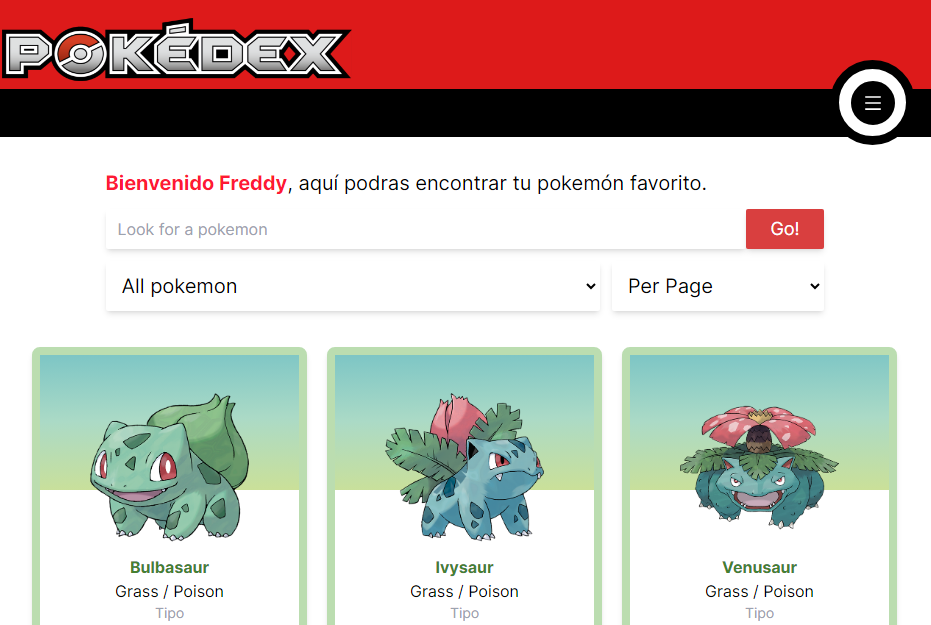
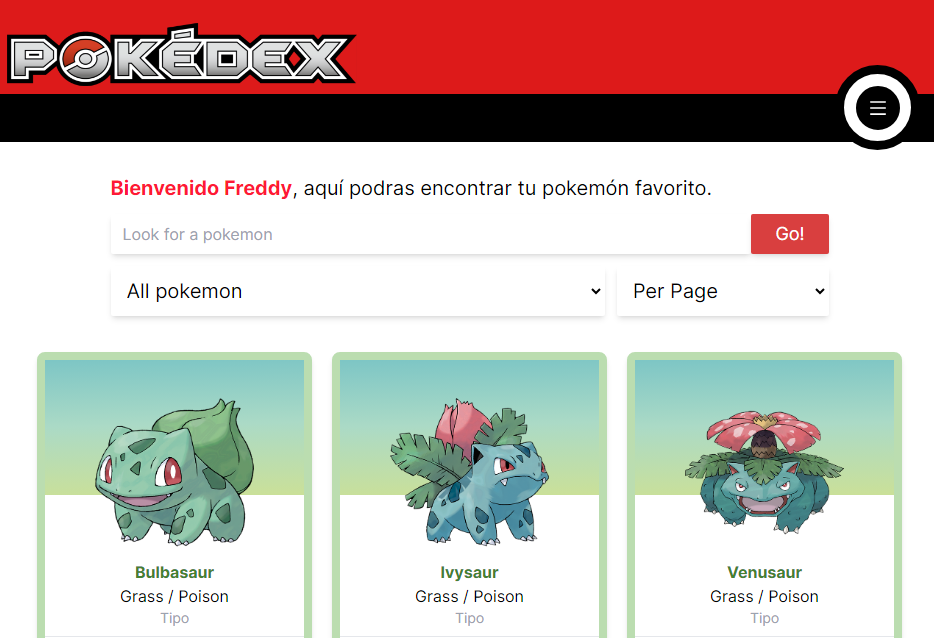
Uploading section Projects

diff --git a/src/components/CardProject.jsx b/src/components/CardProject.jsx
@@ -4,23 +4,23 @@ import { projects } from "../utlis/projectsdb";
 const CardProject = ({ project }) => {
 
   return (
-    <article className="flex flex-col xlg:flex-row gap-4 xlg:gap-6 justify-center p-4 py-6 shadow-lg rounded-md bg-white border-[1px] border-gray-400/30 dark:bg-[#1e1a4f] dark:shadow-white dark:shadow-none dark:border-none">
-      <div className="overflow-hidden rounded-md flex justify-center items-center w-full h-[150px] xxs:h-[200px] xlg:max-w-[175px] xlg:h-[150px]">
+    <article className="flex flex-col xlg:flex-row gap-4 xlg:gap-6 justify-center shadow-lg rounded-md bg-white border-[1px] border-gray-400/30 dark:bg-[#1e1a4f] dark:shadow-white dark:shadow-none dark:border-none xlg:h-[225px] hover:scale-105 transition-all duration-500">
+      <div className="overflow-hidden rounded-t-md xlg:rounded-none xlg:rounded-b-md xlg:rounded-r-none xlg:rounded-l-md flex justify-center items-center w-full h-[150px] xxs:h-[200px] xlg:w-[275px] xlg:h-full xlg:shadow-md">
         <img
           src={projects[project].img}
           alt=""
-          className="w-full h-full object-cover hover:scale-125 transition-all duration-500 opacity-50 hover:opacity-100"
+          className="w-full h-full object-cover transition-all duration-500"
         />
       </div>
-      <div className="flex flex-col gap-2 justify-center">
-        <h3 className="text-md font-semibold text-[#1e1a4f] dark:text-white xmd:text-xl xlg:text-2xl">
+      <div className="flex flex-col gap-3 justify-center p-4 xlg:px-3 xlg:py-5 xlg:max-w-[175px] xlg:justify-between">
+        <h3 className="text-md font-semibold text-[#1e1a4f] dark:text-white xxs:text-xl xmd:text-2xl xlg:text-2xl">
         {projects[project].title}
         </h3>
-        <p className="text-sm dark:text-white xmd:text-lg">{projects[project].content}</p>
+        <p className="text-sm dark:text-white xxs:text-base xmd:text-lg">{projects[project].content}</p>
         <a
           href={projects[project].url}
           target="_blank"
-          className="text-black cursor-pointer p-2 border rounded-md bg-white hover:bg-gray-100 text-sm w-[85px] text-center transition-all duration-300 dark:hover:bg-slate-950 dark:border-none dark:hover:text-white xmd:text-lg xmd:w-[110px]"
+          className="text-black cursor-pointer p-2 border rounded-md bg-white hover:bg-gray-100 text-sm w-[85px] text-center transition-all duration-300 dark:hover:bg-slate-950 dark:border-none dark:hover:text-white xxs:text-base xmd:text-lg xxs:w-[95px] xmd:w-[110px]"
         >
           Ver pagina
         </a>

diff --git a/src/components/CardProjectDetail.jsx b/src/components/CardProjectDetail.jsx
@@ -19,15 +19,15 @@ const CardProjectDetail = ({ project }) => {
   console.log(projects[project]);
 
   return (
-    <article className="flex flex-col xxl:justify-between xxl:px-6 xlg:flex-row gap-4 xlg:gap-6 justify-center p-4 py-6 shadow-lg rounded-md bg-white border-[1px] border-gray-400/30 dark:bg-[#1e1a4f] dark:shadow-white dark:shadow-none dark:border-none xlg:h-[225px] xxl:h-auto">
-      <div className="overflow-hidden rounded-md flex justify-center items-center w-full h-[150px] xxs:h-[200px] xlg:max-w-[175px] xlg:h-[150px] xxl:h-[250px] xxl:max-w-[250px]">
+    <article className="flex flex-col xlg:justify-between xlg:flex-row gap-4 xlg:gap-8 justify-center shadow-lg rounded-md bg-white border-[1px] border-gray-400/30 dark:bg-[#1e1a4f] dark:shadow-white dark:shadow-none dark:border-none xlg:h-[250px] xxl:h-[275px] hover:scale-105 transition-all duration-500">
+      <div className="overflow-hidden rounded-t-md xlg:rounded-none xlg:rounded-b-md xlg:rounded-r-none xlg:rounded-l-md flex justify-center items-center w-full h-[150px] xxs:h-[200px] xlg:w-[300px] xlg:h-full xxl:h-full xxl:w-[275px]">
         <img
           src={projects[project].img}
           alt=""
-          className="w-full h-full object-cover hover:scale-125 transition-all duration-500"
+          className="w-full h-full object-cover transition-all duration-500"
         />
       </div>
-      <div className="flex flex-col gap-2 justify-center xxl:justify-between py-2">
+      <div className="flex flex-col gap-4 justify-center xxl:justify-between pb-6 py-2 px-4 xlg:w-[275px] xlg:py-12 xxl:py-6 xxl:gap-2 xxl:pr-6">
         <div className="flex flex-col xxl:gap-3">
           <h3 className="text-md font-semibold text-[#1e1a4f] dark:text-white xmd:text-xl xxl:text-2xl">
             {projects[project].title}
@@ -38,7 +38,11 @@ const CardProjectDetail = ({ project }) => {
         </div>
         <div className="flex gap-2 py-2">
           {projects[project].codes.map((img) => (
-            <img src={imagescode[img]} alt="" className="w-[24px] xxs:w-[32px] opacity-60 hover:opacity-100 transition-opacity duration-200"/>
+            <img
+              src={imagescode[img]}
+              alt=""
+              className="w-[24px] xxs:w-[32px] opacity-60 hover:opacity-100 transition-opacity duration-200"
+            />
           ))}
         </div>
         <div className="flex gap-2 justify-end items-center xxl:gap-3">

diff --git a/src/Pages/Projects.jsx b/src/Pages/Projects.jsx
@@ -16,9 +16,9 @@ const Projects = () => {
   });
 
   return (
-    <div className="w-full flex flex-col gap-6 dark:bg-slate-950">
+    <div className="w-full flex flex-col gap-6 dark:bg-slate-950 xmd::h-[400px]">
       <h2 className="text-center text-2xl xlg:text-4xl mt-6 dark:text-white">Mis Proyectos</h2>
-      <section className="w-full grid grid-cols-[repeat(auto-fill,_275px)] xxs:grid-cols-[repeat(auto-fill,350px)] xlg:grid-cols-[repeat(auto-fill,425px)] xlg:px-10 pt-6 pb-6 gap-8 justify-center mx-auto xlg:max-w-[1000px] xxl:grid-cols-[repeat(auto-fill,550px)] xxl:max-w-[1240px]">
+      <section className="w-full grid grid-cols-[repeat(auto-fill,_250px)] xxs:grid-cols-[repeat(auto-fill,325px)] xlg:grid-cols-[repeat(auto-fill,600px)] xlg:px-10 pt-6 pb-6 gap-8 justify-center mx-auto xlg:max-w-[1000px] xxl:grid-cols-[repeat(auto-fill,550px)] xxl:max-w-[1240px]">
         <div data-aos="fade-up">
           <CardProjectDetail project="ecomercereact"/>
         </div>

diff --git a/src/Pages/Home.jsx b/src/Pages/Home.jsx
@@ -78,7 +78,7 @@ const Home = () => {
           <h2 className="font- text-2xl text-center text-black xxs:text-3xl dark:text-white font-semibold xmd:text-4xl xlg:mb-10 xlg:text-5xl">
             Proyectos Recientes
           </h2>
-          <section className="w-full grid grid-cols-[repeat(auto-fill,_275px)] xxs:grid-cols-[repeat(auto-fill,350px)] xlg:grid-cols-[repeat(auto-fill,425px)] pt-6 gap-8 justify-center mx-auto max-w-[1000px]">
+          <section className="w-full grid grid-cols-[repeat(auto-fill,_275px)] xxs:grid-cols-[repeat(auto-fill,325px)] xlg:grid-cols-[repeat(auto-fill,425px)] pt-6 gap-8 justify-center mx-auto max-w-[1024px] xlg:gap-12">
             <CardProject project="weatherapp" />
             <CardProject project="rickandmorty" />
             <CardProject project="pokedex" />

diff --git a/src/utlis/projectsdb.js b/src/utlis/projectsdb.js
@@ -73,7 +73,7 @@ export const projects = {
   },
   ecomercereact: {
     title: "Ecommerce React",
-    content: "Ecomerce web creado con React y Tailwind CSS",
+    content: "Ecomerce creado con React y Tailwind CSS",
     img: "/captureprojects/ecomerce.png",
     url: "https://ecomercefr.netlify.app/",
     github: "https://github.com/fred0727/e-comercefr",
